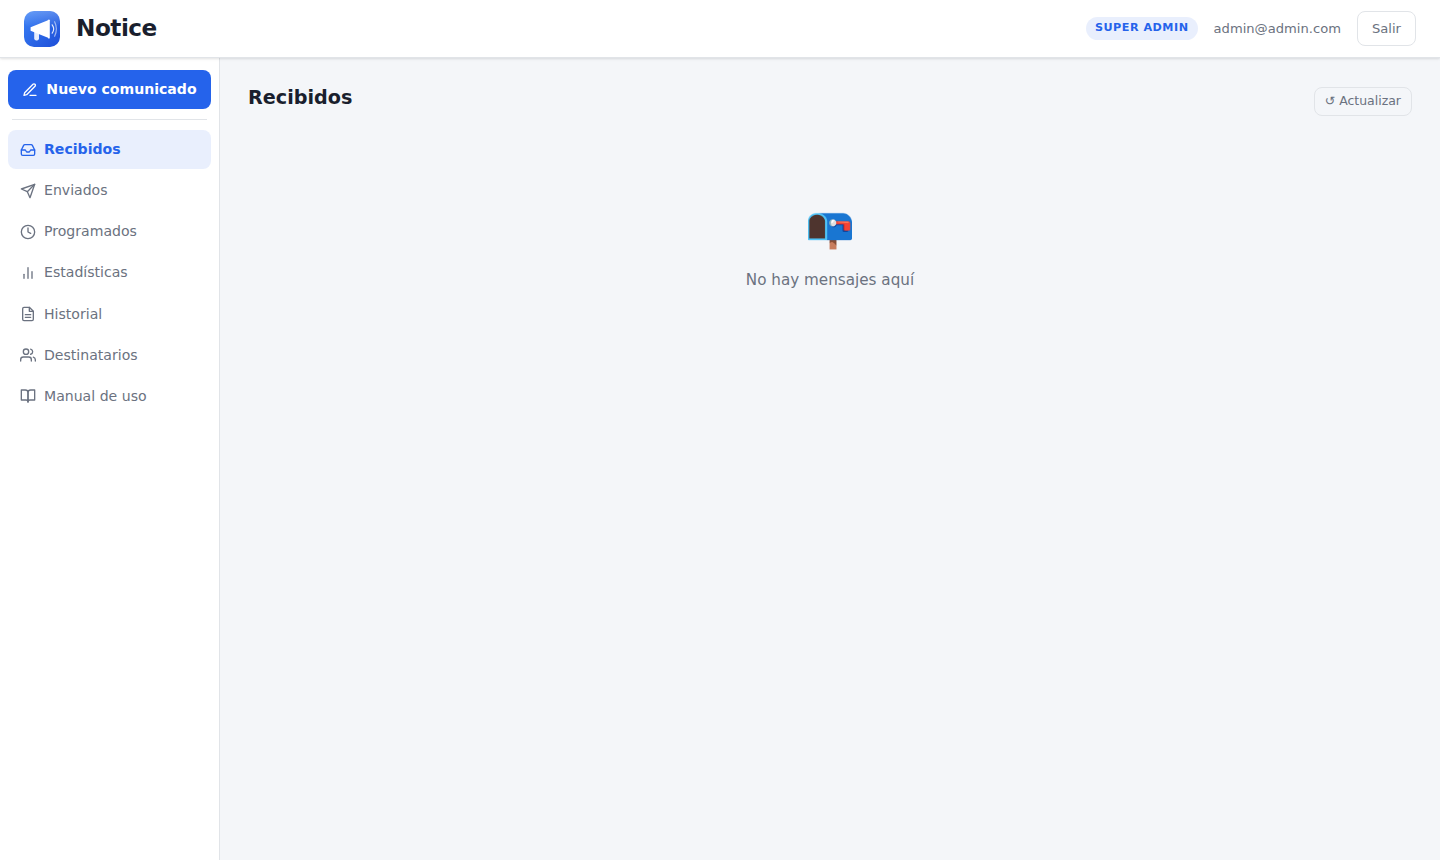
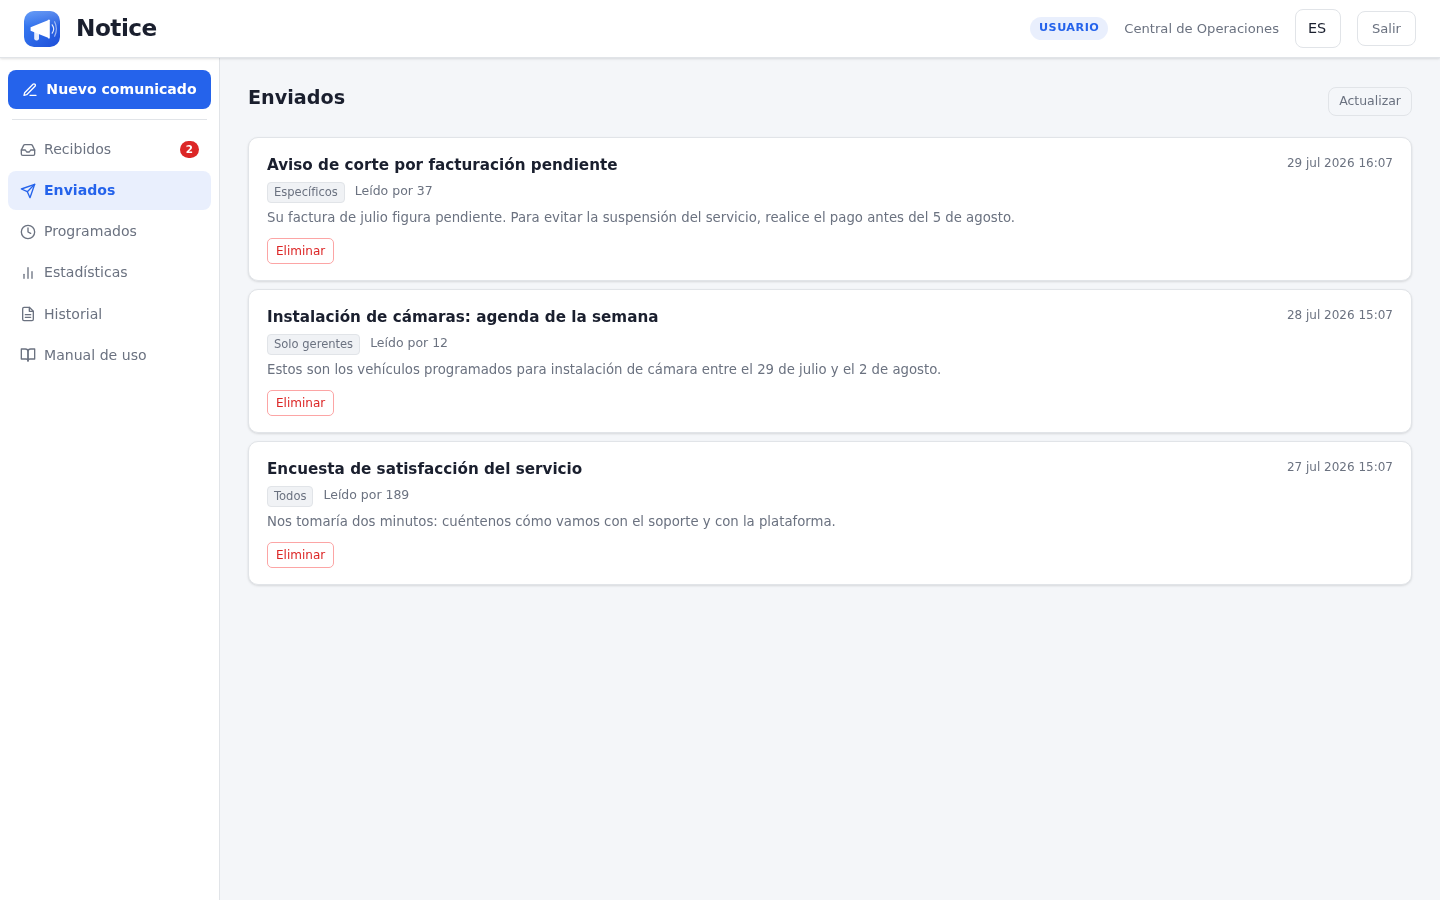
Apps: quitar los 6 videos (eran pantallas de acceso y "cargando datos") y rehacer las capturas vacias de Notice
Videos eliminados de camfleet, driveiq, inspectpro, notice, pilotos y tagradar.
Al revisarlos uno por uno mostraban: pantalla de acceso (camfleet, notice),
"Estamos cargando sus datos" (driveiq), "Cargando inspecciones..." (inspectpro),
2 conductores sin vehiculo (pilotos) y un mapa vacio (tagradar). Ninguno vendia nada.

Notice: sus 6 capturas decian "No hay mensajes aqui" porque la tabla de mensajes
esta vacia. Se rehicieron con datos de demostracion SIN TOCAR la base de produccion
(1.002 usuarios reales): se interceptaron las llamadas del navegador y se alimento
la pantalla con datos inventados. Ahora se ven Recibidos, Enviados, Programados y
el editor de comunicados, todos con contenido.

Verificado en el sitio en vivo: las 6 paginas responden 200, 0 videos, 0 imagenes
rotas, 0 errores JS.

diff --git a/apps/driveiq.html b/apps/driveiq.html
@@ -271,23 +271,6 @@
   <script>(function(){var bs=document.querySelectorAll(".sc-feat"),im=document.getElementById("sc-img");bs.forEach(function(b){b.addEventListener("click",function(){bs.forEach(function(x){x.classList.remove("active")});b.classList.add("active");im.src=b.getAttribute("data-img");});});})();</script>
 </section>
 
-<!-- Video -->
-<section class="section">
-  <div class="container" style="max-width:900px">
-    <div class="section-head" data-reveal>
-      <span class="section-label" style="color:#F59E0B" data-i18n="app_sec_demo">Demostración</span>
-      <h2 class="section-title" data-i18n="dq_video_title">DriveIQ en acción</h2>
-    </div>
-    <!-- ============================================================
-         ZONA DE VIDEO
-         Reemplaza el div.media-placeholder-inner por tu video:
-         <video src="../assets/images/driveiq-demo.mp4" controls poster="../assets/images/driveiq-thumb.jpg"></video>
-         O un embed de YouTube:
-         <iframe src="https://www.youtube.com/embed/TU_ID" frameborder="0" allowfullscreen style="position:absolute;inset:0;width:100%;height:100%"></iframe>
-         ============================================================ -->
-    <video src="../assets/images/driveiq-demo.mp4" controls poster="../assets/images/driveiq-thumb.jpg" style="width:100%;border-radius:16px;display:block" data-reveal></video>
-  </div>
-</section>
 
 <!-- CTA -->
 <section class="section cta-section">

diff --git a/apps/inspectpro.html b/apps/inspectpro.html
@@ -272,14 +272,6 @@
   <script>(function(){var bs=document.querySelectorAll(".sc-feat"),im=document.getElementById("sc-img");bs.forEach(function(b){b.addEventListener("click",function(){bs.forEach(function(x){x.classList.remove("active")});b.classList.add("active");im.src=b.getAttribute("data-img");});});})();</script>
 </section>
 
-<section class="section" style="background:var(--c-bg-2)">
-  <div class="container" style="max-width:900px">
-    <div class="section-head" data-reveal><span class="section-label" style="color:#3B82F6" data-i18n="app_sec_video">Demo en video</span><h2 class="section-title" data-i18n="ip_video_title">Ve InspectPro en acción</h2></div>
-    <div class="media-placeholder video-placeholder" data-reveal style="border-color:rgba(59,130,246,.2)">
-      <video src="../assets/images/inspectpro-demo.mp4" controls style="width:100%;border-radius:16px;display:block"></video>
-    </div>
-  </div>
-</section>
 
 <section class="section cta-section">
   <div class="container">

diff --git a/apps/tagradar.html b/apps/tagradar.html
@@ -288,14 +288,6 @@
   <script>(function(){var bs=document.querySelectorAll(".sc-feat"),im=document.getElementById("sc-img");bs.forEach(function(b){b.addEventListener("click",function(){bs.forEach(function(x){x.classList.remove("active")});b.classList.add("active");im.src=b.getAttribute("data-img");});});})();</script>
 </section>
 
-<section class="section" style="background:var(--c-bg-2)">
-  <div class="container" style="max-width:900px">
-    <div class="section-head" data-reveal><span class="section-label" style="color:#10B981" data-i18n="app_sec_video">Demo en video</span><h2 class="section-title" data-i18n="tr_video_title">Ve TagRadar en acción</h2></div>
-    <div class="media-placeholder video-placeholder" data-reveal style="border-color:rgba(16,185,129,.2)">
-      <video src="../assets/images/tagradar-demo.mp4" controls style="width:100%;border-radius:16px;display:block"></video>
-    </div>
-  </div>
-</section>
 
 <section class="section cta-section">
   <div class="container">

diff --git a/apps/notice.html b/apps/notice.html
@@ -293,14 +293,6 @@
   <script>(function(){var bs=document.querySelectorAll(".sc-feat"),im=document.getElementById("sc-img");bs.forEach(function(b){b.addEventListener("click",function(){bs.forEach(function(x){x.classList.remove("active")});b.classList.add("active");im.src=b.getAttribute("data-img");});});})();</script>
 </section>
 
-<section class="section" style="background:var(--c-bg-2)">
-  <div class="container" style="max-width:900px">
-    <div class="section-head" data-reveal><span class="section-label" style="color:#06B6D4" data-i18n="app_sec_video">Demo en video</span><h2 class="section-title" data-i18n="no_video_title">Ve Notice en acción</h2></div>
-    <div class="media-placeholder video-placeholder" data-reveal style="border-color:rgba(6,182,212,.2)">
-      <video src="../assets/images/notice-demo.mp4" controls style="width:100%;border-radius:16px;display:block"></video>
-    </div>
-  </div>
-</section>
 
 <section class="section cta-section">
   <div class="container">

diff --git a/apps/pilotos.html b/apps/pilotos.html
@@ -370,12 +370,6 @@
   <script>(function(){var bs=document.querySelectorAll(".sc-feat"),im=document.getElementById("sc-img");bs.forEach(function(b){b.addEventListener("click",function(){bs.forEach(function(x){x.classList.remove("active")});b.classList.add("active");im.src=b.getAttribute("data-img");});});})();</script>
 </section>
 
-<section class="section" style="background:var(--c-bg-2)">
-  <div class="container" style="max-width:900px">
-    <div class="section-head" data-reveal><span class="section-label" style="color:#DE6510" data-i18n="app_sec_video">Demo en video</span><h2 class="section-title" data-i18n="po_video_title">Ve PilotOS en acción</h2></div>
-    <video src="../assets/images/pilotos-demo.mp4" controls style="width:100%;border-radius:16px;display:block"></video>
-  </div>
-</section>
 
 <section class="section cta-section">
   <div class="container">

diff --git a/apps/camfleet.html b/apps/camfleet.html
@@ -289,12 +289,6 @@
   <script>(function(){var bs=document.querySelectorAll(".sc-feat"),im=document.getElementById("sc-img");bs.forEach(function(b){b.addEventListener("click",function(){bs.forEach(function(x){x.classList.remove("active")});b.classList.add("active");im.src=b.getAttribute("data-img");});});})();</script>
 </section>
 
-<section class="section" style="background:var(--c-bg-2)">
-  <div class="container" style="max-width:900px">
-    <div class="section-head" data-reveal><span class="section-label" style="color:#7C3AED" data-i18n="app_sec_video">Demo en video</span><h2 class="section-title" data-i18n="wb_151">Ve CamFleet en acción</h2></div>
-    <video src="../assets/images/camfleet-demo.mp4" controls style="width:100%;border-radius:16px;display:block"></video>
-  </div>
-</section>
 
 <section class="section cta-section">
   <div class="container">
